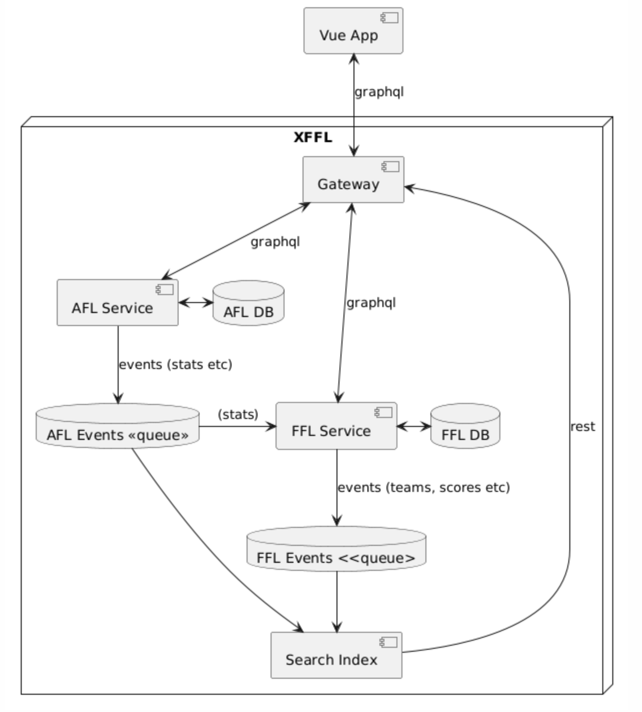
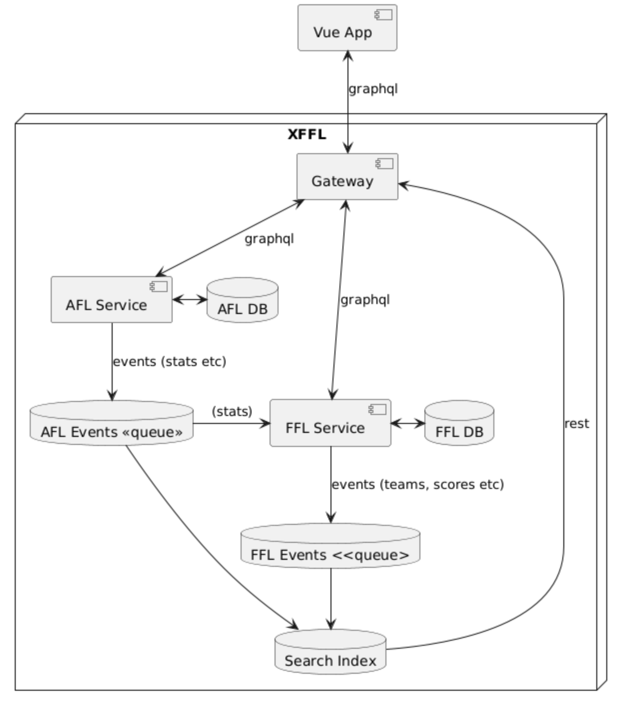
Update logical view

diff --git a/README.md b/README.md
@@ -327,7 +327,7 @@ node "XFFL" {
   database "AFL Events <<queue>>" as aflqueue
   database "FFL Events <<queue>" as fflqueue
 
-  [Search Index] as searchindex
+  database "Search Index" as searchindex
 }
 
 vueapp <--> gateway : graphql
